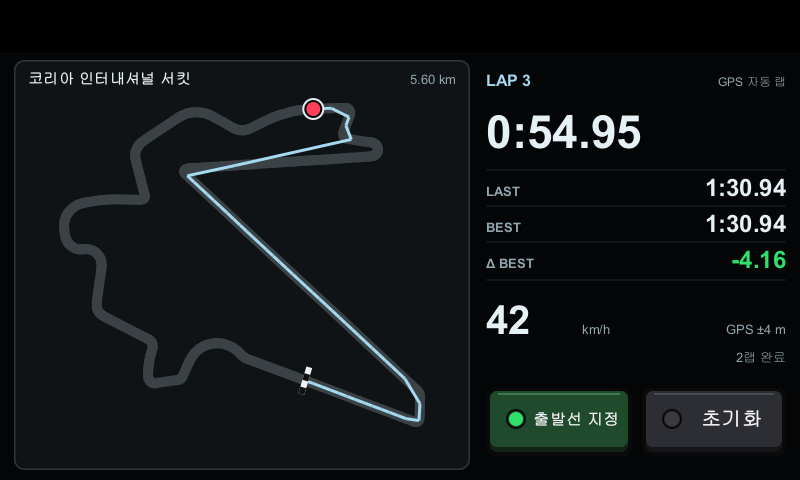
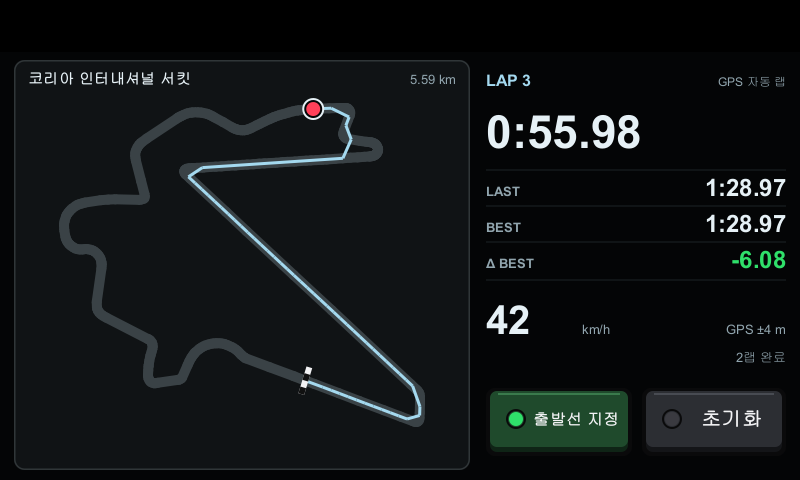
Circuits: AMG Speedway's start / finish line from its circuit map; KIC's track no longer runs 8 m past its line
AMG: 185 m into the 446 m straight from T17 to T1. KIC keeps OSM's finish node (the control line,
about a third of the way down the main straight; a circuit map that draws one line puts it near the
middle, between the finish and the grid).

diff --git a/shared/src/com/veloster/vehicle/CircuitData.java b/shared/src/com/veloster/vehicle/CircuitData.java
@@ -10,10 +10,10 @@ final class CircuitData {
     private CircuitData(){}
     static final String[][] TRACKS={
         {"inje","인제 스피디움","Inje Speedium","3935","y}|fF_|_nWkEAsSSm@C[Ic@YeBwBIWCI?K?IHq@H}@BWBg@BQ@EDEDEfHoEXGVAPJJTB`@KZ]XaE|CMRER?V?RD`@J\\LRv@b@ZFXCVGZOVSTk@vB_GPURQPERER@zBLvAFhEJJ@H@HBFFFJBJN|@Rl@Pd@NZV\\XZjAv@~CxATBTAVQl@o@LKZKP?XHNNJX@d@C`@Gl@A\\DZFNNLTHz@HLDNPFV@d@@fA@dAF~ACj@O`@UVWPYFoBJQBIBYJONILCD}CtFKXG^Gh@AlEGd@KNSFWA[IMOIQm@{D@e@No@N_@nGkJ~AaCHU?a@Kq@CQUgBSg@_@g@SOYOc@Gc@E","map"},
-        {"kic","코리아 인터내셔널 서킷","Korea International Circuit","5604","}m~rEctqbWBOPy@|@eEr@cD|@gEh@eC\\aBBM@I?KIMMCe@AaAAc@?O@KBKFKLc@l@mN|RkFrHeH|J_CbD}E~G[b@EFE@C@E???EAAAEGCK?OAK?M?GAYAs@Cu@Am@Ao@Cu@Ay@Cu@Ai@Aq@Ck@Ak@Ak@Aq@Cq@Ai@A{@Cm@Ak@Ag@Am@Ak@Ae@C_ACaACy@A}@Cs@Ag@?IAIAIAEAEACAACEACCCCAECAAE?EAG@A@G@GDEDA?CFABCFADAJAHAZEr@M`B?DCHABGHC@GDG?GAKCgA_@_@OGAG?G?GDGDEHAH?J?r@@hA@hABjA@^?NDj@?LD`@Fb@Hf@D\\FXDT@BFTDNLb@L`@J\\Nd@FRBN@F@J@JAP?FANADCNADGRc@hA_@fAIRGTEPCZCJ?XAN@\\?JD`@J`@FPBLHNdCrFXh@HLLJNJRHRBPATCfCi@~A]N?FDF^CfE@x@Bz@N~BDVDXFRTb@LNNNNJb@LVBb@An@ILELGLKHKHOFOFQ@Q@SASAS@QBWFUNWPQPKTEFAJ?V@|Ed@d@AJCLGJKLSL]nCqIBKLOHELCN?VFVFHB^FXBF@Z@\\@NAJCPMFU@KCWSgDAIIQuAm@YMWOMKMKEEWa@IQKYG]E]AW?O?[BYBMDSHYDOLWLSLMHMLSBGz@aEz@cEXoAF[","osm"},
+        {"kic","코리아 인터내셔널 서킷","Korea International Circuit","5587","}m~rEctqbWBOPy@|@eEr@cD|@gEh@eC\\aBBM@I?KIMMCe@AaAAc@?O@KBKFKLc@l@mN|RkFrHeH|J_CbD}E~G[b@EFE@C@E???EAAAEGCK?OAK?M?GAYAs@Cu@Am@Ao@Cu@Ay@Cu@Ai@Aq@Ck@Ak@Ak@Aq@Cq@Ai@A{@Cm@Ak@Ag@Am@Ak@Ae@C_ACaACy@A}@Cs@Ag@?IAIAIAEAEACAACEACCCCAECAAE?EAG@A@G@GDEDA?CFABCFADAJAHAZEr@M`B?DCHABGHC@GDG?GAKCgA_@_@OGAG?G?GDGDEHAH?J?r@@hA@hABjA@^?NDj@?LD`@Fb@Hf@D\\FXDT@BFTDNLb@L`@J\\Nd@FRBN@F@J@JAP?FANADCNADGRc@hA_@fAIRGTEPCZCJ?XAN@\\?JD`@J`@FPBLHNdCrFXh@HLLJNJRHRBPATCfCi@~A]N?FDF^CfE@x@Bz@N~BDVDXFRTb@LNNNNJb@LVBb@An@ILELGLKHKHOFOFQ@Q@SASAS@QBWFUNWPQPKTEFAJ?V@|Ed@d@AJCLGJKLSL]nCqIBKLOHELCN?VFVFHB^FXBF@Z@\\@NAJCPMFU@KCWSgDAIIQuAm@YMWOMKMKEEWa@IQKYG]E]AW?O?[BYBMDSHYDOLWLSLMHMLSBGz@aEz@cE","osm"},
         {"kic_permanent","KIC 상설 서킷","KIC Permanent Circuit","3024","o{_sEsmqbWAUAi@A{@Cm@Ak@Ag@Am@Ak@Ae@C_ACaACy@A}@Cs@Ag@?IAIAIAEAEACAACEACCCCAECAAE?EAG@??A@G@GDEDA?CFABCFADAJ?BADAZEr@M`B?DCHABGHC@GDG?GAKCgA_@_@OGAG?G?GDGDEHAH?J?r@@hA@hA@t@@T?H@T?H?DBZ@N?LD`@Fb@Ff@@?D\\BHBNDT@BFTDNZdAJ\\Nd@FRBN@F@J@JAP?FANADCNADGR??c@hA_@fAIRGTEPCZCJ?XAN@\\?JD`@J`@FPBLHNHPzB`FNXHNHLLJNJRHRBPATCfCi@~A]N?FDBFBVCfE@x@Bz@N~BDVDXFRHRJNLNNNNJLDNDD@H@L@P?PAn@ILELGLKHKHOFOFQ@Q@SASAQCMEQoFoRO]MYU[SQWQWIYGYCyA@A?E???EAAAEGCK???OAK?M?GAYAs@Cu@Am@Ao@Cu@Ay@Cu@Ai@Aq@Ck@Ak@Ak@Aq@","est"},
         {"taebaek","태백 스피드웨이","Taebaek Speedway","2321","aviaFuxmrWz@zL\\dFFz@lAbH@f@Ob@[La@OUg@eBiHYaA_@w@_@eAUi@Os@Gm@BmBC}AKmCQk@Y]]S_@Ec@BgAd@c@P]@YOQ[Ga@He@P_@~AeBV_@Nc@Fe@?u@Ge@Q[u@iAm@y@Yq@Su@G{@B}@Ps@Zq@b@i@h@]j@Ur@Et@Hd@Vf@j@`@x@RnA|AzT","map"},
-        {"amg","AMG 스피드웨이","AMG Speedway","4350","{psbFc{kgWwBdCoAtAYRWHYAUIUQQ]Sk@S_AGm@Cu@?i@Bi@D_@HWJMPITAPHPVFXB^?`CBVJPNHN@NELM|A}BJQ@EBMAUISi@{@K]CW@InBkDb@_AZaARaANqAFiA?{A?}B?{@?gI?_@C{AAs@KeBM_AUgBYaCmAiIUkA[i@[Um@Uk@?k@Fm@`@g@bAs@zCIh@BXLR\\\\VFVMNa@b@mDL]VUZBZDX^Hh@Cx@Cl@UpAKz@Ed@?VN^VVDDlCtAfChAPRNl@Fn@DxA?p@Az@CrF?fBAx@C|C@N@NHNFHLHJBLALGDKDK@QF_A\\eF]oK@]HWNQVETBPNHRBZ@v@BrGHnNAd@@ZFTPPZRLZ@b@G`@S`@{GvH","est"},
+        {"amg","AMG 스피드웨이","AMG Speedway","4350","alsbFk`lgW_@b@qFhGoAtAYRWHYAUIUQQ]Sk@S_AGm@Cu@?i@Bi@D_@HWJMPITAPHPVFXB^?`CBVJPNHN@NELM|A}BJQ@EBMAUISi@{@K]CW@InBkDb@_AZaARaANqAFiA?{A?}B?{@?gI?_@C{AAs@KeBM_AUgBYaCmAiIUkA[i@[Um@Uk@?k@Fm@`@g@bAs@zCIh@BXLR\\\\VFVMNa@b@mDL]VUZBZDX^Hh@Cx@Cl@UpAKz@Ed@?VN^VVDDlCtAfChAPRNl@Fn@DxA?p@Az@CrF?fBAx@C|C@N@NHNFHLHJBLALGDKDK@QF_A\\eF]oK@]HWNQVETBPNHRBZ@v@BrGHnNAd@@ZFTPPZRLZ@b@G`@S`@","map"},
         {"pocheon","포천 레이스웨이","Pocheon Raceway","3124","ohigF{ligWyF`H]`@yAhBqA_B]a@Qk@@WDWJQRKREPDLJNLDV@b@?T@NHHHBRKx@cA~FgH@YGKKIcC{@KIGMCSFS|@qAPQd@@b@JfAPt@JVA^KNKnA{AZa@v@_AfDaErA}AHUG[OKUEg@BUJ[^_GbJc@b@c@N_@DqADS@ESCa@@OnCw@^[BQCKOGuB@QIMOC]HSTE|AGz@Qn@Wr@g@t@q@PMbCsBj@e@\\[REPAPBTHHPLb@AdBE`@Mf@]v@gFpGe@n@g@l@qCjD","est"},
         {"bmw","BMW 드라이빙 센터","BMW Driving Center","2476","m{scF{r_cWePrCOLKXG\\?\\JNJPLLPBT?NIj@_AVSVMTKPGRCNAPANAR@PDx@XJHPFJ?L@JATGxBgBt@k@l@Y`@Ql@Qf@M`@Gp@E^A`@A~BTT@JEPGP?LFJJDLBTARGJKPKHKF]HK?WEOEQMQQMSSKWEQ@SNSPIDK@ICQMKGKIICSDiBb@OJOJELBNFZHLDBH?`@UJCH?r@d@JDJFH@R?F?JBNJLLHPHX@ZARGpB?NDNFHFDJBHCJCHKhCwEFMFGJEfB{@LMHQB[BS@]A_@I_@KWQe@QUSQa@UQGYCQ?M@OB","est"}
     };

diff --git a/scripts/circuits.py b/scripts/circuits.py
@@ -10,7 +10,7 @@ Fetch the ways below with an Overpass query and pass the JSON:
 
 The start / finish line is, in this order: a point read off the circuit's official map, snapped onto the track (Inje:
 the 2025 SuperRace round 6 circuit map, control line just after T19; Taebaek: a circuit map with the line about mid
-straight between T10 and T1); OSM's "Finish Line" node (KIC); or an estimate,
+straight between T10 and T1; AMG: a circuit map, the line 185 m into the T17-T1 straight); OSM's "Finish Line" node (KIC); or an estimate,
 halfway (by distance) along the longest straight within 40 m of the pit lane, the main straight beside the pits, or
 the middle of the longest straight where no pit lane is mapped. Lap times do not depend on where the line sits.
 """
@@ -28,7 +28,7 @@ CIRCUITS = [
     ("kic", "코리아 인터내셔널 서킷", "Korea International Circuit", [708763326], [234767156, 1291666918], 2429025515),
     ("kic_permanent", "KIC 상설 서킷", "KIC Permanent Circuit", [234764328], [234768719], None),
     ("taebaek", "태백 스피드웨이", "Taebaek Speedway", [240211101], [826496123], (37.082725, 129.017869)),   # circuit map: 348 m into the 651 m straight from T10
-    ("amg", "AMG 스피드웨이", "AMG Speedway", [240199084, 671420801, 671420803, 671420804], [450059011], None),
+    ("amg", "AMG 스피드웨이", "AMG Speedway", [240199084, 671420801, 671420803, 671420804], [450059011], (37.296167, 127.206624)),   # circuit map: 185 m into the 446 m T17-T1 straight
     ("pocheon", "포천 레이스웨이", "Pocheon Raceway", [1559045138], [], None),   # OSM has no pit lane here
     ("bmw", "BMW 드라이빙 센터", "BMW Driving Center", [530969647], [], None),
 ]
@@ -74,6 +74,10 @@ def main():
             nodes += n[1:] if nodes else n
         if nodes[0] == nodes[-1]:
             pts, nodes = pts[:-1], nodes[:-1]   # closed: drop the repeated point
+        else:   # open (KIC): drop an end that runs on past the start
+            m0 = metres(*pts[0])
+            while math.hypot(*m0(*pts[-1])) < 10:
+                pts, nodes = pts[:-1], nodes[:-1]
         m = metres(*pts[0])
         xy = [m(*p) for p in pts]
         if isinstance(finish, tuple):

diff --git a/tests/CircuitsTest.java b/tests/CircuitsTest.java
@@ -18,6 +18,8 @@ public final class CircuitsTest {
         check(Math.abs(il[0]-38.000451)*110540<15&&Math.abs(il[1]-128.291362)*87700<15,"Inje's line is where the official map puts it: "+il[0]+","+il[1]);
         int tb=find("taebaek");double[] tl=Circuits.start(tb);   // the circuit map's line, mid straight between T10 and T1
         check(!Circuits.lineEstimated(tb)&&Math.abs(tl[0]-37.082725)*110540<15&&Math.abs(tl[1]-129.017869)*88400<15,"Taebaek's line is where its map puts it: "+tl[0]+","+tl[1]);
+        int amg=find("amg");double[] al=Circuits.start(amg);   // the circuit map's line on the T17-T1 straight
+        check(!Circuits.lineEstimated(amg)&&Math.abs(al[0]-37.296167)*110540<15&&Math.abs(al[1]-127.206624)*88400<15,"AMG's line is where its map puts it: "+al[0]+","+al[1]);
         double[] s=Circuits.start(inje);
         check(Circuits.pick(s[0],s[1],-1)==inje,"at Inje's line: Inje");
         check(Circuits.pick(37.5663,126.9779,-1)<0,"Seoul City Hall: no circuit");

diff --git a/i30pd_port/app/TABS.md b/i30pd_port/app/TABS.md
@@ -198,7 +198,7 @@ PD에서 새로 고를 수 있는 항목(순간 연료소모 · 평균 연비 ·
 |---|---|---|
 | ![](screens/9d_cluster_taxi_music.png) | ![](screens/9d_cluster_taxi_receipt.png) | ![](screens/9d_cluster_taxi_busan_out.png) |
 
-- **서킷**(GPS 랩 타이머): 헤드유닛 GPS로 등록된 국내 서킷 7곳(인제 스피디움, KIC 풀코스·상설, 태백 스피드웨이, AMG 스피드웨이, 포천 레이스웨이, BMW 드라이빙 센터; OpenStreetMap 트랙 선) 안에 들어가면 그 서킷이 **미니맵**(북쪽이 위)으로 나오고 지금 위치(빨간 점)와 출발선(체크무늬)이 바로 보인다. 출발선을 처음 지나는 순간 1랩이 시작되고 그 방향을 기억해, 같은 방향으로 다시 지날 때마다(출발선 좌우 30 m, 20초 이상) 랩이 자동으로 넘어간다. 1초에 한 번 오는 위치 사이에서 선을 넘은 시각을 보간해 0.1초 안팎까지 맞춘다. 오른쪽에 지금 랩, LAST·BEST, 이전 최고와의 차이(초록 = 새 최고), 속도, GPS 정확도. 이번 랩 경로가 지도 위에 하늘색으로 겹친다. KIC 풀코스·상설처럼 땅을 같이 쓰는 코스는 차가 달리는 쪽(다른 코스에서 30 m 넘게 벗어나고 이 코스에서 15 m 안)으로 바뀐다. 출발선: 인제는 2025 슈퍼레이스 공식 서킷맵의 컨트롤라인, 태백은 서킷맵의 출발선(10번과 1번 사이 직선 가운데), KIC 풀코스는 OSM 결승선 표시, 나머지는 피트 옆 직선 가운데로 추정(지도에 `출발선 위치는 추정`, 랩 시간 자체에는 영향 없음). `출발선 지정`을 누르면 지금 자리에 출발선을 새로 두고(등록되지 않은 곳에서도 동작, 그때 지도는 지나온 경로), `초기화`는 서킷의 원래 출발선으로 되돌린다. 기록은 앱을 닫으면 사라진다.
+- **서킷**(GPS 랩 타이머): 헤드유닛 GPS로 등록된 국내 서킷 7곳(인제 스피디움, KIC 풀코스·상설, 태백 스피드웨이, AMG 스피드웨이, 포천 레이스웨이, BMW 드라이빙 센터; OpenStreetMap 트랙 선) 안에 들어가면 그 서킷이 **미니맵**(북쪽이 위)으로 나오고 지금 위치(빨간 점)와 출발선(체크무늬)이 바로 보인다. 출발선을 처음 지나는 순간 1랩이 시작되고 그 방향을 기억해, 같은 방향으로 다시 지날 때마다(출발선 좌우 30 m, 20초 이상) 랩이 자동으로 넘어간다. 1초에 한 번 오는 위치 사이에서 선을 넘은 시각을 보간해 0.1초 안팎까지 맞춘다. 오른쪽에 지금 랩, LAST·BEST, 이전 최고와의 차이(초록 = 새 최고), 속도, GPS 정확도. 이번 랩 경로가 지도 위에 하늘색으로 겹친다. KIC 풀코스·상설처럼 땅을 같이 쓰는 코스는 차가 달리는 쪽(다른 코스에서 30 m 넘게 벗어나고 이 코스에서 15 m 안)으로 바뀐다. 출발선: 인제는 2025 슈퍼레이스 공식 서킷맵의 컨트롤라인, 태백·AMG는 서킷맵의 출발선(태백 10번과 1번 사이, AMG 17번과 1번 사이 직선), KIC 풀코스는 OSM 결승선 표시, 나머지는 피트 옆 직선 가운데로 추정(지도에 `출발선 위치는 추정`, 랩 시간 자체에는 영향 없음). `출발선 지정`을 누르면 지금 자리에 출발선을 새로 두고(등록되지 않은 곳에서도 동작, 그때 지도는 지나온 경로), `초기화`는 서킷의 원래 출발선으로 되돌린다. 기록은 앱을 닫으면 사라진다.
 
 | 인제 스피디움 | 코리아 인터내셔널 서킷 | 서킷 밖 (GPS 없음) |
 |---|---|---|

diff --git a/NOTICE.md b/NOTICE.md
@@ -18,7 +18,7 @@ CAN 메시지·신호의 배치와 배율은 [commaai/opendbc](https://github.co
 
 ## 서킷 지도
 
-서킷 화면의 국내 서킷 7곳(인제 스피디움, 코리아 인터내셔널 서킷 풀코스·상설, 태백 스피드웨이, AMG 스피드웨이, 포천 레이스웨이, BMW 드라이빙 센터) 트랙 선은 © [OpenStreetMap](https://www.openstreetmap.org/copyright) 기여자 자료이며 ODbL 1.0을 따릅니다. 이 자료로 만든 `shared/src/com/veloster/vehicle/CircuitData.java`(`scripts/circuits.py`로 생성)는 이 레포의 다른 파일과 달리 ODbL로 배포합니다. 인제의 출발선은 2025 슈퍼레이스 6라운드 공식 서킷맵에 표시된 컨트롤라인 위치를 OSM 트랙 위에 옮긴 것이고, 태백은 사용자가 보내 준 서킷맵(10번 코너와 1번 코너 사이 직선 가운데)의 출발선을, KIC 풀코스는 OSM의 결승선 표시, 나머지는 피트 옆 직선 가운데로 추정한 위치입니다.
+서킷 화면의 국내 서킷 7곳(인제 스피디움, 코리아 인터내셔널 서킷 풀코스·상설, 태백 스피드웨이, AMG 스피드웨이, 포천 레이스웨이, BMW 드라이빙 센터) 트랙 선은 © [OpenStreetMap](https://www.openstreetmap.org/copyright) 기여자 자료이며 ODbL 1.0을 따릅니다. 이 자료로 만든 `shared/src/com/veloster/vehicle/CircuitData.java`(`scripts/circuits.py`로 생성)는 이 레포의 다른 파일과 달리 ODbL로 배포합니다. 인제의 출발선은 2025 슈퍼레이스 6라운드 공식 서킷맵에 표시된 컨트롤라인 위치를 OSM 트랙 위에 옮긴 것이고, 태백·AMG 스피드웨이는 사용자가 보내 준 서킷맵(태백 10번과 1번 사이 직선 가운데, AMG 17번과 1번 사이 직선)의 출발선을, KIC 풀코스는 OSM의 결승선 표시, 나머지는 피트 옆 직선 가운데로 추정한 위치입니다.
 
 ## 아케이드 화면의 차 그림
 
